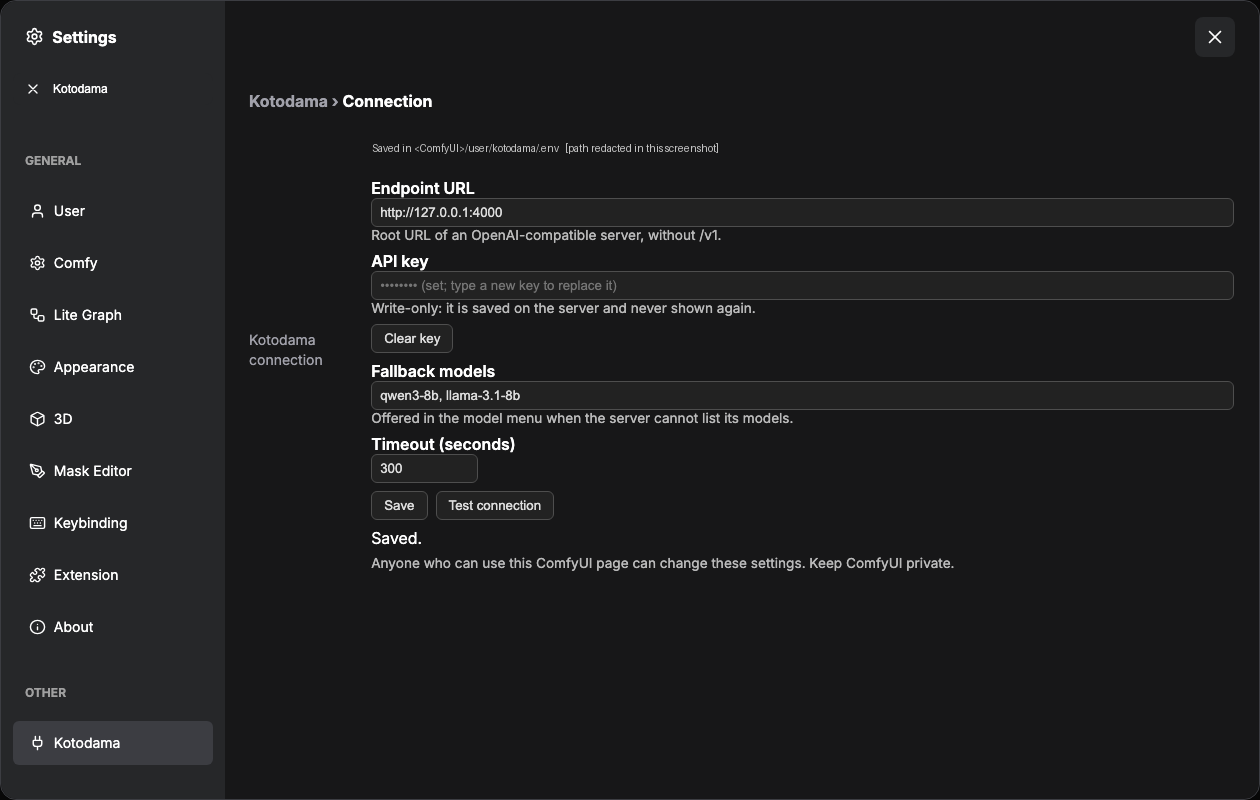
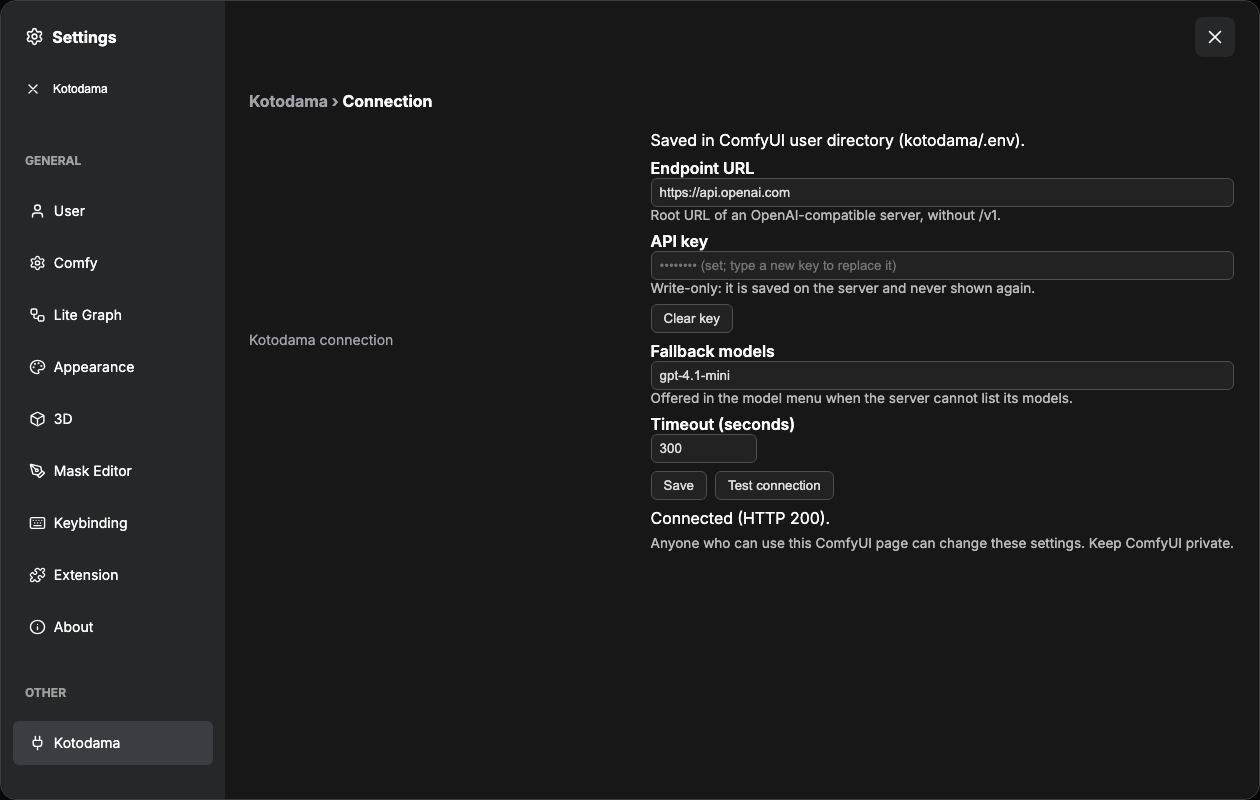
docs: screenshots from the merged settings build; proxy and key-outside-panel notes
Replaces the hand-redacted settings screenshot with one taken on the merged
code (no path shown), adds a canvas screenshot of the example workflow after
one real run, and documents KOTODAMA_ALLOWED_ORIGINS (reverse proxies) and
the key_outside_panel refusal.

Changed region(s): [[0.2476, 0.1562, 0.9905, 0.7188], [0.1857, 0.4375, 0.2476, 0.4688]]

diff --git a/README.md b/README.md
@@ -47,6 +47,9 @@ Click **Save** (it asks you to confirm an endpoint change), then **Test connecti
 
 > **Anyone who can use your ComfyUI page can change these settings.** ComfyUI has no login by default, so keep it private. The key is never sent back to the browser.
 
+- **Behind an HTTPS reverse proxy?** The panel only accepts saves from ComfyUI's own origin. Set `KOTODAMA_ALLOWED_ORIGINS` (comma-separated, exact origins such as `https://comfy.example.com`) in the environment or the `.env` file, otherwise saving is refused with `cross_origin`.
+- **Key set in the environment or the node folder's `.env`?** The panel won't change the endpoint or clear the key (`key_outside_panel`), so a key can never be sent to a new server behind your back. Change both where the key lives.
+
 **Alternative: environment variables or a `.env` file.** These still work and **take precedence** over the panel (the panel says when they do). Copy `.env.example` to `.env` in this node folder:
 
 ```dotenv
@@ -61,7 +64,9 @@ Use HTTPS for a remote service. Existing installs using `LITELLM_BASE_URL` and `
 
 ## Try the example
 
-Open `examples/kotodama-preview-api.json` in ComfyUI (**Workflow → Open**, or drag the file onto the canvas). It is two nodes: Kotodama feeding a **Preview Any** node that shows the generated prompt. Pick a model from the node's model menu (the file ships with a placeholder), then **Queue**. No image model is needed to see what Kotodama writes. To render it, connect `prompt` to `CLIPTextEncode.text` in your own workflow.
+Open `examples/kotodama-preview-api.json` in ComfyUI (**Workflow → Open**, or drag the file onto the canvas). It is two nodes: Kotodama feeding a **Preview Any** node that shows the generated prompt. Pick a model from the node's model menu (the file ships with a placeholder), then **Queue**.
+
+![The example workflow after one run: Kotodama feeding Preview as Text](docs/images/canvas-example.png) No image model is needed to see what Kotodama writes. To render it, connect `prompt` to `CLIPTextEncode.text` in your own workflow.
 
 ## Use
 
